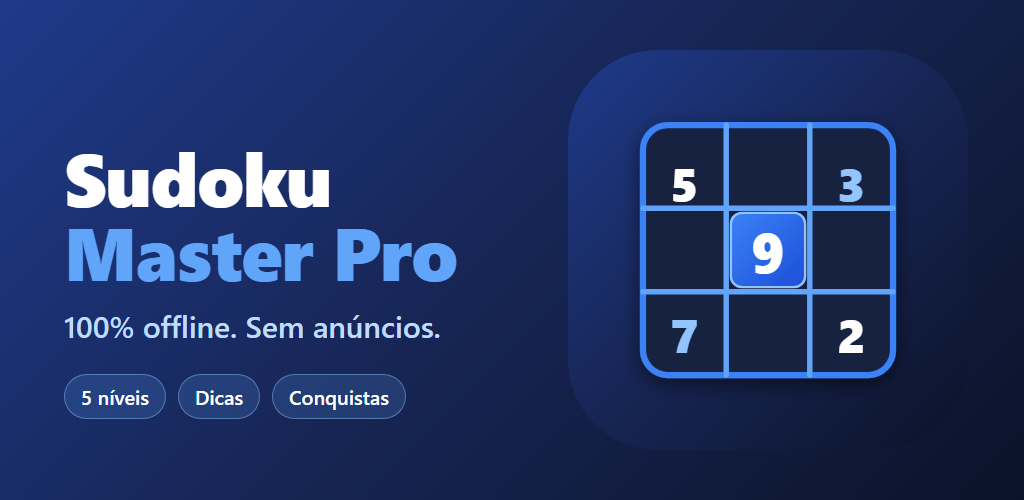
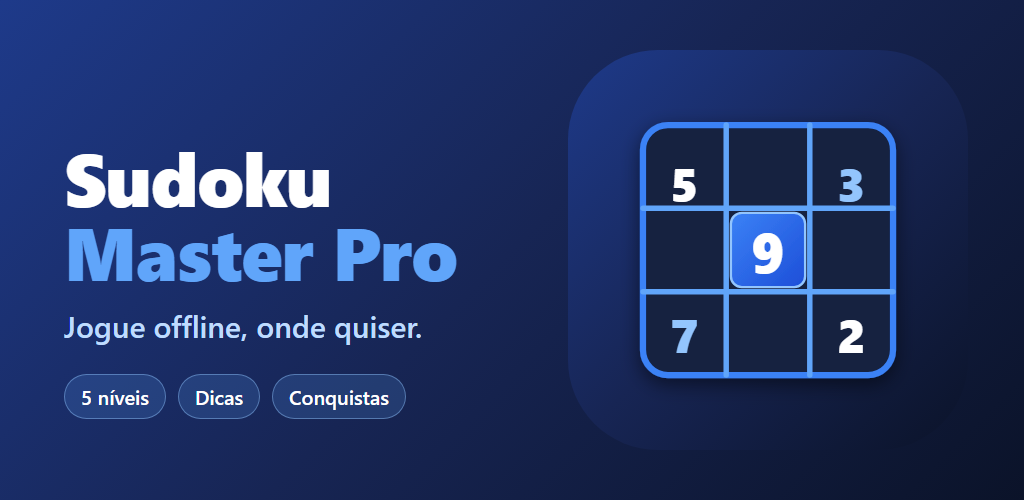
feat: faixa de anuncio AdMob fixa na base (app Android)
- banner nativo adaptativo com consentimento UMP e IDs de teste do Google
- layout reserva a altura da faixa (home e tabuleiro se ajustam, nada fica coberto)
- politica de privacidade, ficha da loja e guia atualizados (anuncios, Data safety)

Changed region(s): [[0.0625, 0.63, 0.4375, 0.69]]

diff --git a/public/politica-de-privacidade.html b/public/politica-de-privacidade.html
@@ -21,7 +21,7 @@
       <p class="muted">Sudoku Master Pro · Última atualização: 27 de outubro de 2026</p>
 
       <p>
-        O <strong>Sudoku Master Pro</strong> é um jogo de Sudoku que funciona 100% offline.
+        O <strong>Sudoku Master Pro</strong> é um jogo de Sudoku que pode ser jogado offline.
         Esta política explica quais informações o aplicativo usa e como elas são tratadas.
       </p>
 
@@ -41,42 +41,60 @@
       <ul>
         <li>Não exigimos conta, e-mail, telefone ou qualquer cadastro.</li>
         <li>Não coletamos localização, contatos, fotos, microfone, câmera ou identificadores de publicidade.</li>
-        <li>Não exibimos anúncios e não vendemos nem compartilhamos dados com terceiros.</li>
-        <li>O aplicativo Android não usa ferramentas de análise ou rastreamento.</li>
+        <li>Não vendemos seus dados e não usamos ferramentas de análise própria no aplicativo Android.</li>
       </ul>
 
-      <h2>3. Permissões</h2>
+      <h2>3. Anúncios (Google AdMob)</h2>
       <p>
-        O aplicativo solicita apenas permissões básicas do sistema: <em>vibração</em> (feedback tátil ao jogar,
-        que pode ser desativado nas configurações) e <em>acesso à internet</em>, exigido pela estrutura do
-        aplicativo, mas não utilizado para enviar dados do jogo.
+        O aplicativo exibe uma faixa de anúncio na parte inferior da tela, fornecida pelo
+        <strong>Google AdMob</strong>. Para exibir e medir anúncios, o Google pode coletar e usar, diretamente
+        no seu aparelho, o <em>ID de publicidade</em>, o endereço IP (para localização aproximada), informações
+        do dispositivo e do aplicativo e dados sobre sua interação com os anúncios. Esses dados são tratados
+        pelo Google conforme a
+        <a href="https://policies.google.com/technologies/ads">política de publicidade do Google</a>;
+        o desenvolvedor não recebe seus dados pessoais.
+      </p>
+      <p>
+        Em regiões onde a lei exige (por exemplo, Espaço Econômico Europeu e Reino Unido), o aplicativo
+        mostra um formulário de consentimento antes de exibir anúncios, e você pode alterar sua escolha depois.
+        Você pode redefinir ou excluir o ID de publicidade e desativar a personalização de anúncios em
+        Configurações do Android › Google › Anúncios.
+      </p>
+      <p>Os anúncios exigem conexão com a internet; sem internet, o jogo funciona normalmente, sem anúncio.</p>
+
+      <h2>4. Permissões</h2>
+      <p>
+        O aplicativo solicita permissões básicas do sistema: <em>vibração</em> (feedback tátil ao jogar,
+        que pode ser desativado nas configurações), <em>acesso à internet</em> e <em>estado da rede</em>
+        (para carregar anúncios) e <em>ID de publicidade</em> (usado pelo AdMob).
       </p>
 
-      <h2>4. Contato com o desenvolvedor</h2>
+      <h2>5. Contato com o desenvolvedor</h2>
       <p>
         A opção "Sugestões ou Erros?" abre o WhatsApp (aplicativo ou navegador) com uma mensagem pré-escrita.
         Nada é enviado automaticamente: a mensagem só é enviada se você decidir enviá-la, e passa a ser
         regida pela política de privacidade do WhatsApp.
       </p>
 
-      <h2>5. Versão web</h2>
+      <h2>6. Versão web</h2>
       <p>
         A versão do jogo acessada pelo navegador pode usar o Google Analytics para medir, de forma agregada,
         o número de acessos. Essa medição não existe no aplicativo Android. Você pode bloquear o Google
         Analytics com as configurações do seu navegador.
       </p>
 
-      <h2>6. Crianças</h2>
+      <h2>7. Crianças</h2>
       <p>
-        O jogo é adequado para todas as idades e não coleta informações pessoais de ninguém, incluindo crianças.
+        O aplicativo não é direcionado a crianças menores de 13 anos. Os anúncios são configurados com classificação
+        de conteúdo geral.
       </p>
 
-      <h2>7. Alterações nesta política</h2>
+      <h2>8. Alterações nesta política</h2>
       <p>
         Se esta política mudar, a nova versão será publicada nesta mesma página com a data de atualização.
       </p>
 
-      <h2>8. Contato</h2>
+      <h2>9. Contato</h2>
       <p>
         Dúvidas sobre privacidade ou suporte:
         <a href="mailto:wagner1junior1@gmail.com">wagner1junior1@gmail.com</a>.

diff --git a/src/components/HomeScreen.tsx b/src/components/HomeScreen.tsx
@@ -87,7 +87,7 @@ export const HomeScreen: React.FC<HomeScreenProps> = ({
   return (
     <div
       id="home-screen"
-      className={`h-[100dvh] max-h-[100dvh] w-full ${currentTheme.bg} ${currentTheme.textColor} flex flex-col justify-between py-3 px-3.5 max-w-md mx-auto select-none overflow-y-auto no-scrollbar font-['Plus_Jakarta_Sans'] transition-colors duration-300 animate-fade-in`}
+      className={`h-full max-h-full w-full ${currentTheme.bg} ${currentTheme.textColor} flex flex-col justify-between py-3 px-3.5 max-w-md mx-auto select-none overflow-y-auto no-scrollbar font-['Plus_Jakarta_Sans'] transition-colors duration-300 animate-fade-in`}
     >
       {/* Top Header Bar */}
       <header className="flex items-center justify-between gap-2 pt-1 pb-2">
@@ -153,13 +153,13 @@ export const HomeScreen: React.FC<HomeScreenProps> = ({
       </header>
 
       {/* Main Hero & Branding Area */}
-      <main className="flex-1 flex flex-col items-center justify-center gap-3 my-auto py-1 text-center">
+      <main className="flex-1 flex flex-col items-center justify-center gap-3 [@media(max-height:760px)]:gap-1.5 my-auto py-1 text-center">
         {/* Animated Visual Board Artwork */}
         <div className="relative group cursor-pointer" onClick={onOpenNewGameModal}>
           <div className="absolute -inset-1.5 bg-gradient-to-r from-blue-600 via-indigo-500 to-amber-400 rounded-3xl blur-md opacity-35 group-hover:opacity-60 transition duration-300 animate-pulse" />
           
           <div
-            className={`relative w-24 h-24 sm:w-28 sm:h-28 rounded-3xl ${currentTheme.cardBg} border-2 border-blue-500/40 p-2 shadow-2xl flex flex-col justify-between overflow-hidden`}
+            className={`relative w-24 h-24 sm:w-28 sm:h-28 [@media(max-height:760px)]:w-16 [@media(max-height:760px)]:h-16 rounded-3xl ${currentTheme.cardBg} border-2 border-blue-500/40 p-2 shadow-2xl flex flex-col justify-between overflow-hidden`}
           >
             {/* 3x3 Mini Grid Art */}
             <div className="grid grid-cols-3 grid-rows-3 gap-1 h-full w-full">
@@ -181,7 +181,7 @@ export const HomeScreen: React.FC<HomeScreenProps> = ({
           <h1 className="text-2xl sm:text-3xl font-black tracking-tight leading-tight font-['Outfit']">
             SUDOKU <span className="text-blue-500">MASTER</span> PRO
           </h1>
-          <p className={`text-xs ${currentTheme.textMuted} mt-0.5 font-medium`}>
+          <p className={`text-xs ${currentTheme.textMuted} mt-0.5 font-medium [@media(max-height:760px)]:hidden`}>
             Desafie sua mente no clássico jogo de números
           </p>
         </div>

diff --git a/src/App.tsx b/src/App.tsx
@@ -63,6 +63,7 @@ import { FeedbackModal } from "./components/FeedbackModal";
 import { evaluateAchievements } from "./utils/achievements";
 import { Achievement } from "./types";
 import { isNativeApp } from "./utils/platform";
+import { startAdBanner } from "./utils/ads";
 
 export default function App() {
   // Settings & Profile
@@ -112,6 +113,7 @@ export default function App() {
   const [recentUnlockedAchievements, setRecentUnlockedAchievements] = useState<Achievement[]>([]);
   const [activeAchievementToast, setActiveAchievementToast] = useState<Achievement | null>(null);
   const [hasContinuedPastLimit, setHasContinuedPastLimit] = useState(false);
+  const [adBannerHeight, setAdBannerHeight] = useState(0);
 
   // Detect PWA installation and listen for install prompts
   useEffect(() => {
@@ -142,6 +144,11 @@ export default function App() {
       window.removeEventListener("beforeinstallprompt", handleBeforeInstallPrompt);
       window.removeEventListener("appinstalled", handleAppInstalled);
     };
+  }, []);
+
+  // Faixa de anúncio na base da tela (somente app Android)
+  useEffect(() => {
+    startAdBanner(setAdBannerHeight);
   }, []);
 
   // Sound effects sync
@@ -751,6 +758,15 @@ export default function App() {
 
   return (
     <div
+      // A faixa de anúncio é nativa e fixa na base: reservamos o espaço dela e informamos a altura ao tabuleiro
+      style={
+        {
+          "--ad-h": `${adBannerHeight}px`,
+          ...(adBannerHeight > 0
+            ? { paddingBottom: `calc(env(safe-area-inset-bottom) + ${adBannerHeight}px)` }
+            : {})
+        } as React.CSSProperties
+      }
       className={`h-[100dvh] max-h-[100dvh] w-full pt-[env(safe-area-inset-top)] pb-[env(safe-area-inset-bottom)] ${currentTheme.bg} ${currentTheme.textColor} flex flex-col justify-between max-w-md mx-auto select-none overflow-hidden transition-colors duration-300 font-['Plus_Jakarta_Sans']`}
     >
       {/* Home Screen / Main Menu */}

diff --git a/src/utils/ads.ts b/src/utils/ads.ts
@@ -1,0 +1,50 @@
+import {
+  AdMob,
+  AdmobConsentStatus,
+  BannerAdPluginEvents,
+  BannerAdPosition,
+  BannerAdSize,
+  MaxAdContentRating
+} from "@capacitor-community/admob";
+import { isNativeApp } from "./platform";
+
+// IDs de TESTE do Google. Em produção defina VITE_ADMOB_BANNER_ID (ID do bloco de anúncios)
+// no ambiente de build e troque o admob_app_id em android/app/src/main/res/values/strings.xml.
+const TEST_BANNER_ID = "ca-app-pub-3940256099942544/6300978111";
+const BANNER_ID = (import.meta.env.VITE_ADMOB_BANNER_ID as string | undefined) || TEST_BANNER_ID;
+
+let started = false;
+
+/**
+ * Pede consentimento (UMP), inicializa o AdMob e mostra a faixa de anúncio na base da tela.
+ * Só existe no app nativo; `onHeightChange` informa a altura (px CSS) ocupada pela faixa.
+ */
+export async function startAdBanner(onHeightChange: (heightPx: number) => void): Promise<void> {
+  if (!isNativeApp || started) return;
+  started = true;
+
+  try {
+    let consent = await AdMob.requestConsentInfo();
+    if (consent.isConsentFormAvailable && consent.status === AdmobConsentStatus.REQUIRED) {
+      consent = await AdMob.showConsentForm();
+    }
+    if (!consent.canRequestAds) return;
+
+    await AdMob.initialize({ maxAdContentRating: MaxAdContentRating.General });
+
+    await AdMob.addListener(BannerAdPluginEvents.SizeChanged, (size) => onHeightChange(size.height));
+    await AdMob.addListener(BannerAdPluginEvents.FailedToLoad, () => onHeightChange(0));
+
+    await AdMob.showBanner({
+      adId: BANNER_ID,
+      adSize: BannerAdSize.ADAPTIVE_BANNER,
+      position: BannerAdPosition.BOTTOM_CENTER,
+      margin: 0
+    });
+  } catch (error) {
+    // Sem internet ou falha do SDK: o jogo segue normalmente, sem anúncio
+    started = false;
+    onHeightChange(0);
+    console.warn("AdMob indisponível:", error);
+  }
+}

diff --git a/src/components/SudokuGrid.tsx b/src/components/SudokuGrid.tsx
@@ -108,7 +108,7 @@ export const SudokuGrid: React.FC<SudokuGridProps> = ({
   return (
     <div
       id="sudoku-grid-container"
-      className="w-full max-w-[min(100vw-8px,460px,55vh)] mx-auto select-none flex items-center justify-center"
+      className="w-full max-w-[min(100vw-8px,460px,calc(55vh-var(--ad-h,0px)))] mx-auto select-none flex items-center justify-center"
     >
       <div
         className={`relative aspect-square w-full rounded-2xl ${currentTheme.cardBg} p-1 sm:p-1.5 border shadow-2xl overflow-hidden`}

diff --git a/PLAY_STORE.md b/PLAY_STORE.md
@@ -52,19 +52,36 @@ Textos prontos em [store/listing-pt-BR.md](store/listing-pt-BR.md). Gráficos em
 
 - **Classificação de conteúdo (IARC)**: jogo de quebra-cabeça, sem violência, sem conteúdo adulto, sem
   interação entre usuários, sem compras → deve resultar em *Livre*.
-- **Público-alvo**: 13+ (ou "todas as idades" se não quiser entrar na política de apps para crianças; se marcar
-  menores de 13, a política *Families* exige revisão extra).
-- **Anúncios**: não contém anúncios.
+- **Público-alvo**: **13+** (não marque menores de 13: a política *Families* só permite SDKs de anúncio certificados
+  e exigiria outra configuração do AdMob).
+- **Anúncios**: **SIM, contém anúncios** (Google AdMob, faixa inferior).
 - **Compras no app**: não.
-- **Segurança dos dados (Data safety)**:
-  - Coleta de dados: **Não** (o app não envia nada para fora do aparelho).
-  - Compartilhamento de dados: **Não**.
-  - Criptografia em trânsito / exclusão de dados: não se aplica (sem dados enviados).
-  - Se você reativar o Google Analytics dentro do app, será preciso declarar "ID do dispositivo / interações
-    do app" coletados e atualizar a política de privacidade.
-- **Permissões**: `INTERNET` e `VIBRATE` (sem permissões sensíveis).
+- **ID de publicidade**: declare que o app **usa** (finalidade: publicidade). A permissão `AD_ID` entra sozinha pelo SDK.
+- **Segurança dos dados (Data safety)** — o AdMob coleta/compartilha dados com o Google:
+  - Coleta: **Sim** → *Identificadores de dispositivo ou outros* (ID de publicidade), *Localização aproximada* (IP),
+    *Informações do app e desempenho* (diagnósticos) e *Atividade no app* (interações com anúncios).
+    Finalidades: **Publicidade ou marketing** e **Análise**. Compartilhado com terceiros: **Sim** (Google).
+  - Os dados do jogo (progresso, nome do jogador) ficam só no aparelho: não são coletados.
+  - Confira a lista oficial: <https://support.google.com/admob/answer/10130996>
+  - Criptografia em trânsito: sim (SDK do Google). Exclusão de dados: o usuário redefine o ID de publicidade no Android.
+- **Permissões** (todas normais, sem sensíveis): `INTERNET`, `ACCESS_NETWORK_STATE`, `VIBRATE`, `AD_ID` e as do SDK de anúncios (`ACCESS_ADSERVICES_*`, `WAKE_LOCK`, `FOREGROUND_SERVICE`).
 - **Categoria**: Jogos › Quebra-cabeça. **Contato**: e-mail de suporte público: `wagner1junior1@gmail.com` (obrigatório na Play).
 - **Acesso ao app**: sem login, tudo acessível.
+
+## 5.1 Configurar o AdMob (obrigatório antes de publicar)
+
+O app está com os **IDs de TESTE do Google**: mostra anúncios de teste e não gera receita.
+
+1. Crie a conta em <https://admob.google.com> e adicione o app Android (`com.sudokumasterpro.app`).
+   (Só dá para vincular à loja depois que o app existir na Play; pode adicionar "sem publicar" e vincular depois.)
+2. Copie o **ID do app** (`ca-app-pub-XXXX~YYYY`) para `android/app/src/main/res/values/strings.xml` (`admob_app_id`).
+3. Crie um bloco de anúncios **Banner** e copie o **ID do bloco** (`ca-app-pub-XXXX/ZZZZ`) para um arquivo `.env.production`
+   na raiz: `VITE_ADMOB_BANNER_ID=ca-app-pub-XXXX/ZZZZ` (está no `.gitignore`). No GitHub Actions, defina o mesmo valor
+   como *variable* e exporte no passo de build.
+4. No AdMob › **Privacidade e mensagens**, crie e **publique** a mensagem de consentimento (GDPR/UMP). Sem ela, usuários
+   do EEE/Reino Unido não verão anúncios.
+5. Rode `npm run cap:sync` e gere o AAB de novo (aumente o `versionCode`).
+6. Nunca clique nos seus próprios anúncios de produção (risco de suspensão da conta).
 
 ## 6. Fluxo recomendado
 

diff --git a/store/listing-pt-BR.md b/store/listing-pt-BR.md
@@ -3,11 +3,11 @@
 **Nome do app (máx. 30)**: Sudoku Master Pro
 
 **Descrição curta (máx. 80)**:
-Sudoku offline com 5 níveis, dicas inteligentes, notas, temas e conquistas.
+Sudoku com 5 níveis, dicas inteligentes, notas, temas e conquistas. Jogue offline!
 
 **Descrição completa (máx. 4000)**:
 
-Sudoku Master Pro é o jogo de Sudoku feito para o celular: rápido, bonito e 100% offline. Jogue em qualquer lugar, sem internet, sem cadastro e sem anúncios.
+Sudoku Master Pro é o jogo de Sudoku feito para o celular: rápido, bonito e 100% offline. Jogue em qualquer lugar, sem internet e sem cadastro. O jogo é gratuito e mostra uma pequena faixa de anúncio na parte de baixo da tela.
 
 🧩 5 NÍVEIS DE DIFICULDADE
 Do Fácil, ideal para quem está começando, até o Mestre, para quem gosta de raciocínio profundo. Todos os tabuleiros têm solução única.
@@ -28,6 +28,6 @@ Escolha entre vários temas claros e escuros, ative ou desative sons e vibraçã
 Sua partida é salva automaticamente. Saia do app quando quiser e continue depois.
 
 🔒 PRIVACIDADE
-Seus dados ficam só no seu aparelho. Sem conta, sem anúncios, sem rastreamento.
+Seu progresso fica só no seu aparelho, sem conta. O anúncio é fornecido pelo Google AdMob (veja a política de privacidade).
 
 Baixe agora e treine a mente com o Sudoku Master Pro!
